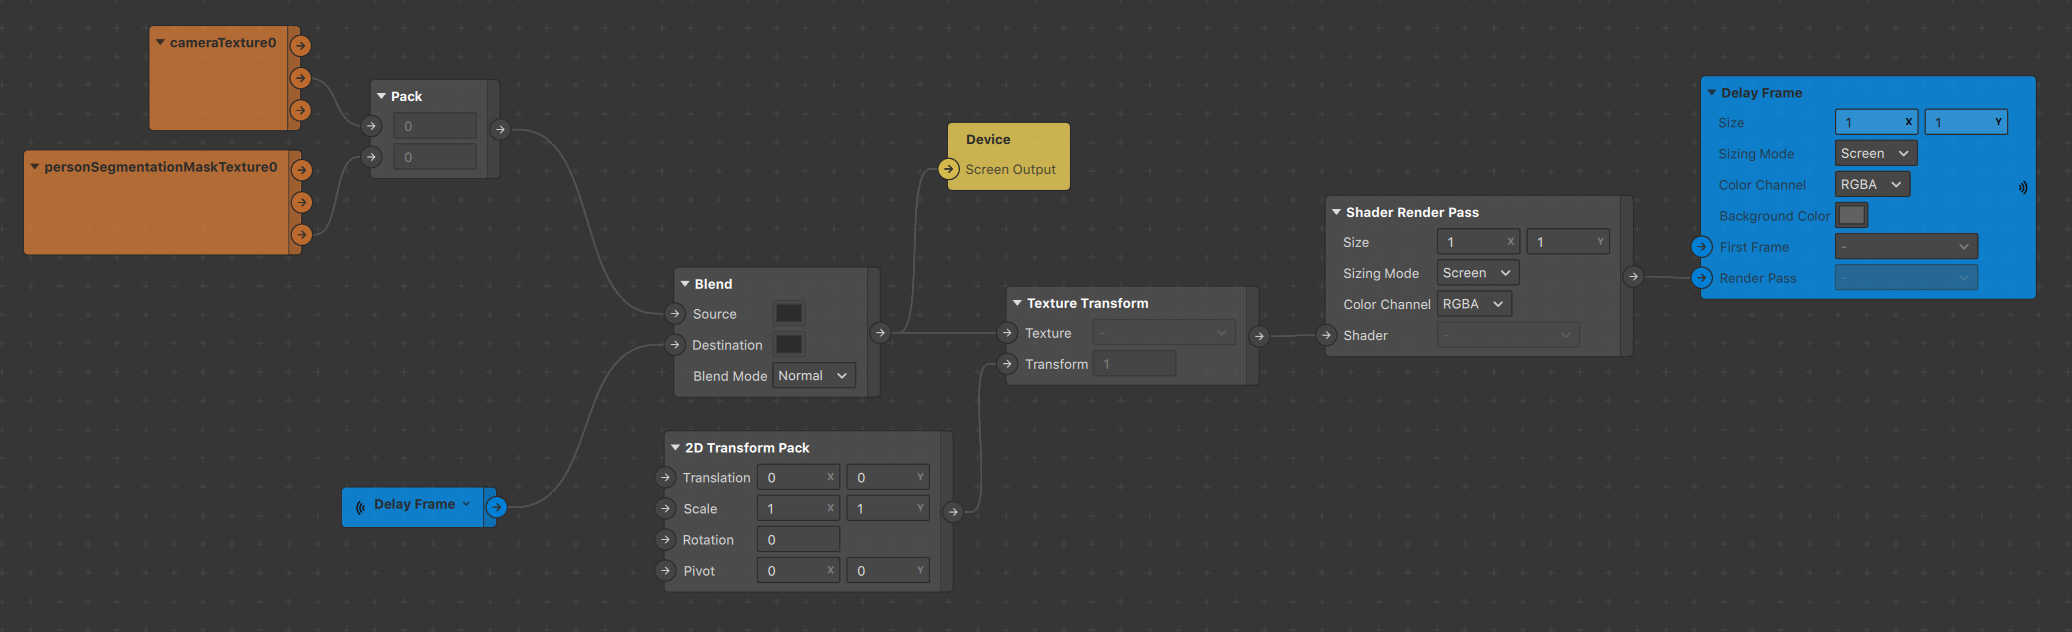
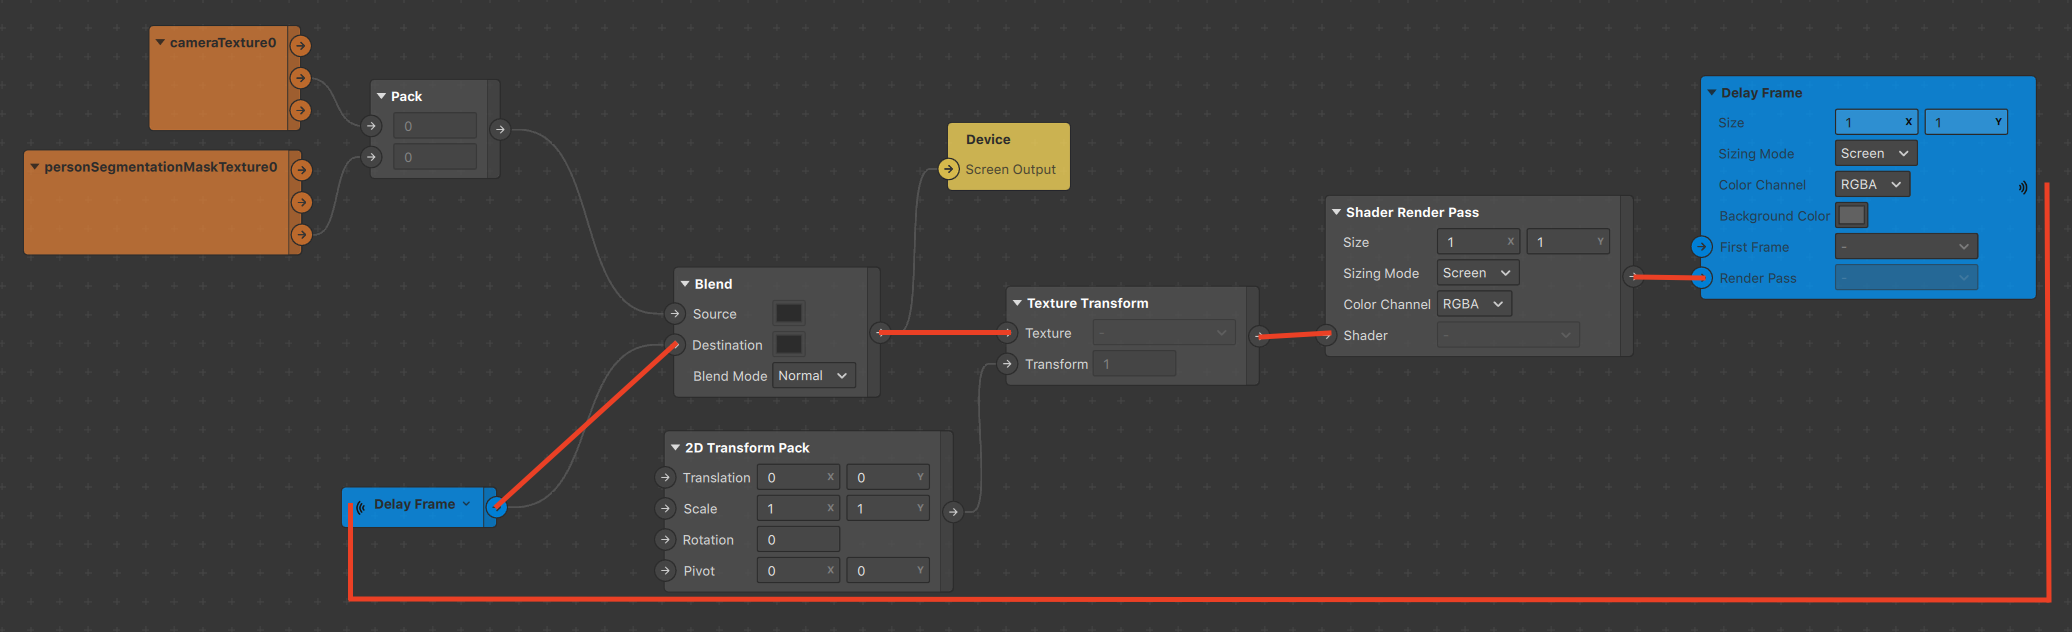
retouch part 2

diff --git a/README.md b/README.md
@@ -41,6 +41,8 @@ The basic idea thus is to modify the delay frame. In order to do this, we'll be 
 What do we feed in the texture slot you might ask? 
 We could just feed the delay frame in it using the receiver patch we set up earlier, however we wanted our effect to apply on the user. In other words, we don't want the effect to apply inside of the person segmentation, rather only on the background. Given that we also want it to draw into the delay frame, we'll make use of a Blend patch set to Normal, and overlay our person segmentation setup with the delay frame, as shown below :
 
-![alt text](https://github.com/The-AR-Company/spark-DevCircComChallenge-Smoke/blob/main/images/First%20Loop.png "Patches - step 3")
+![alt text](https://github.com/The-AR-Company/spark-DevCircComChallenge-Smoke/blob/main/images/Blend.png "Patches - step 3")
 
 At this point we can connect the output of our blend inside the device output and finally see some preliminary results. It's also here that we see our initial loop, that starts from our cameraTexture based setup and goes into the texture transform. From there it enters the cycle, getting modified, sent into the delay frame, which in turn is fed back into our blend and sent through to cycle once more.
+
+![alt text](https://github.com/The-AR-Company/spark-DevCircComChallenge-Smoke/blob/main/images/First%20Loop.png "Patches - step 3")
